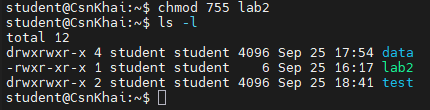
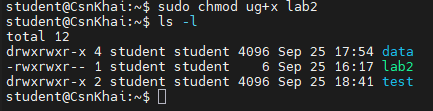
Зробив 15 завдання

diff --git a/Lab3Report.MD b/Lab3Report.MD
@@ -333,18 +333,15 @@ passwd: password expiry information changed.
 
 Початкові права: -rw-rw-r-- означають, що власник (student) і члени групи (student) мають права на читання та запис (rw-), а всі інші користувачі системи мають право лише на читання (r--).
 
-Потім я змінив права доступу до цього файлу, встановивши нове восьмеричне значення 755 за допомогою команди chmod:
+Потім я змінив права доступу до цього файлу за допомогою символьного методу, додавши право на виконання (+x) для власника та групи:
 
 ![alt text](image-17.png)
 
-Вираз 755 у восьмеричній системі задає такий розподіл:
+- У команді ug+x літери позначають ролі: u (user), g (group).
+- Знак + означає додавання права.
+- Літера x означає право на виконання.
 
-- 7 (для власника) = rwx читання, запис і виконання.
-- 5 (для групи) = r-x читання та виконання, без права запису.
-- 5 (для інших) = r-x читання та виконання.
-
-У результаті рядок прав змінився з -rw-rw-r-- на -rwxr-xr-x.
-
+У результаті до прав власника та групи додалося виконання, а рядок прав змінився з -rw-rw-r-- на -rwxrwxr--.
 
 Також за допомогою прав суперкористувача я змінив власника файлу lab2, передавши його іншому обліковому запису user1_mod:
 
@@ -356,7 +353,32 @@ passwd: password expiry information changed.
 
 ### 15) Наведіть приклад восьмеричного надання прав доступу. Опишіть umask.
 
+Спочатку я змінив права доступу до файлу lab2, встановивши нове восьмеричне значення 755 за допомогою команди chmod:
 
+![alt text](image-19.png)
+
+Вираз 755 у восьмеричній системі задає такий розподіл:
+
+- 7 (для власника) = rwx читання, запис і виконання.
+- 5 (для групи) = r-x читання та виконання, без права запису.
+- 5 (для інших) = r-x читання та виконання.
+
+У результаті рядок прав змінився з -rwxrwxr-- на -rwxr-xr-x.
+
+umask — це маска за замовчуванням, яка регулює права доступу під час створення нових файлів і каталогів. Вона задається у вигляді восьмеричного числа і визначає атрибути, які не потрібно встановлювати новому файлу чи каталогу.   
+
+Перевірка поточної маски в системі за допомогою команди umask:
+
+```
+student@CsnKhai:~$ umask
+0002
+```
+
+Якщо встановлено umask 0002, то з базових прав повністю прибираються обмеження на запис для групи, залишаючи їй повні права. 
+
+У результаті нові файли створюються з правами rw-rw-r--, а нові каталоги — з правами rwxrwxr-x.   
+
+---
 
 ### 16) Дайте визначення sticky біт і механізму заміни ідентифікатора. Наведіть приклад файлів та каталогів із даними атрибутами.
 
